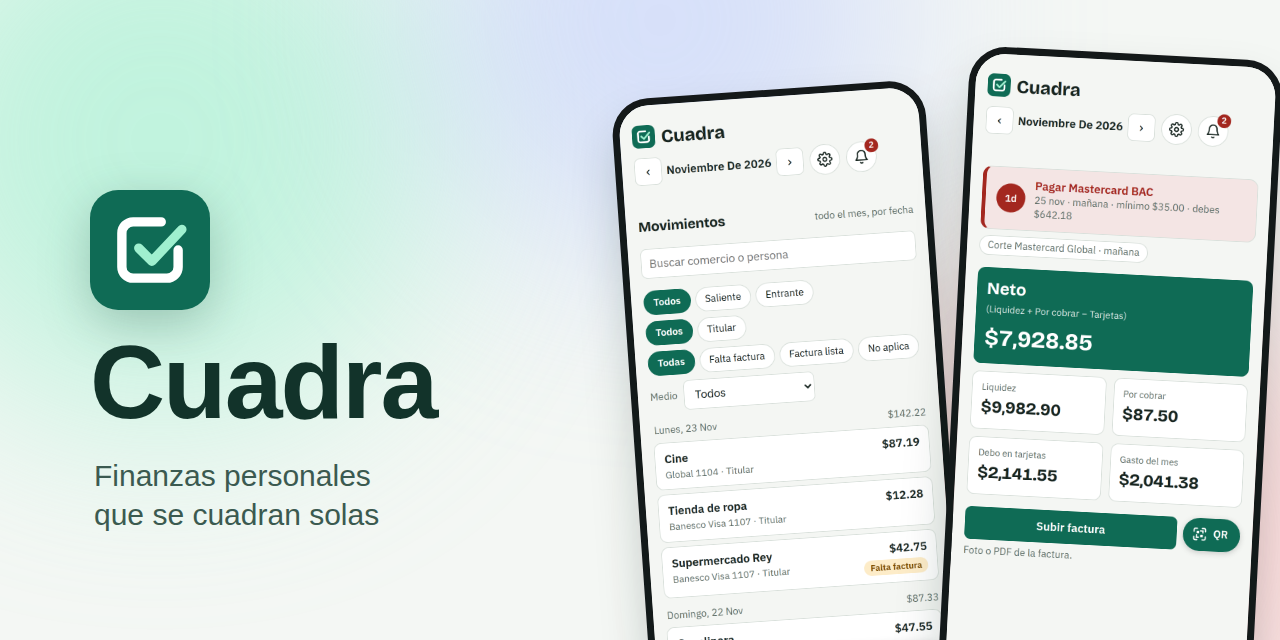
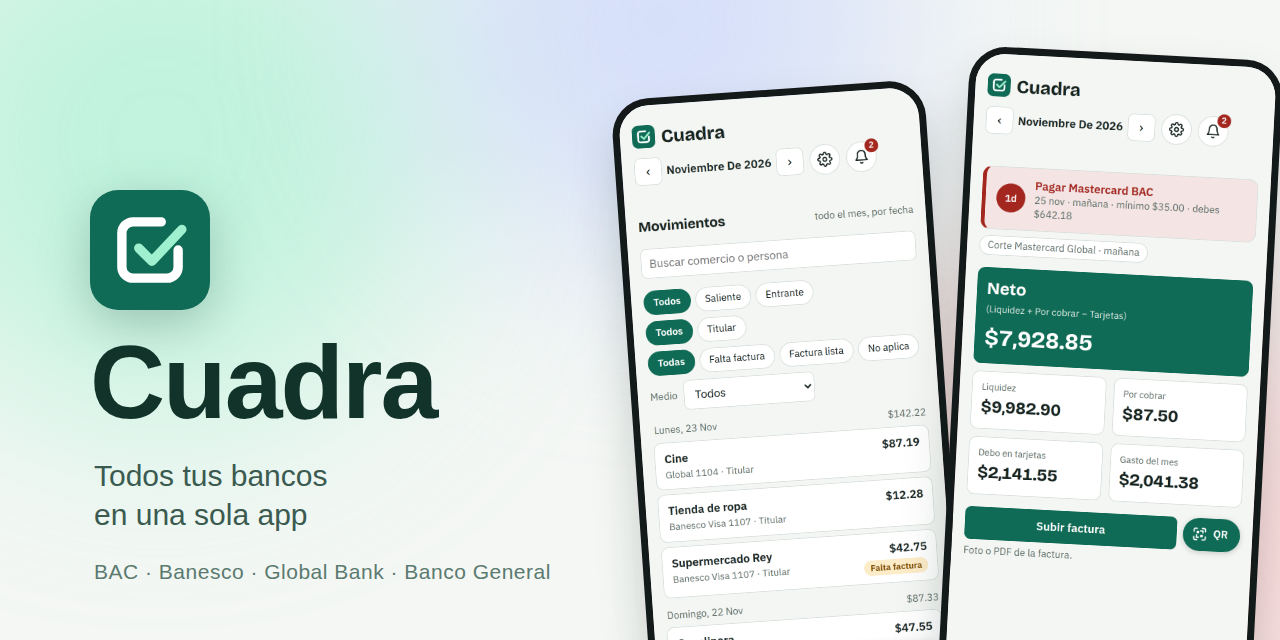
Actualización 2026-11-24

Changed region(s): [[0.0625, 0.7188, 0.3125, 0.8438], [0.0625, 0.875, 0.4375, 0.9062]]

diff --git a/README.md b/README.md
@@ -4,7 +4,7 @@
 
 <h1 align="center">Cuadra</h1>
 
-**Finanzas personales que se cuadran solas.** Cuadra lee tus bancos panameños, tus avisos por correo y tus facturas, y mantiene en una sola página tus saldos, tus gastos, tus tarjetas y lo que otras personas te deben, sin que tengas que anotar nada a mano.
+**Todos tus bancos en una sola app.** Cuadra junta BAC, Banesco, Global Bank y Banco General (y tu Yappy) en una sola pantalla: saldos, tarjetas, movimientos y facturas, cuadrados solos contra lo que dice cada banco. En Panamá no existe una API para ver tus bancos juntos, así que Cuadra entra por ti a cada banca en línea, solo para leer, y te lo muestra todo unificado, junto con lo que otras personas te deben, sin que tengas que anotar nada a mano.
 
 Corre en un servidor propio y pequeño (una Raspberry Pi o un VPS de 1 GB), sin servicios de terceros para tus datos y sin IA en el proceso.
 
@@ -135,6 +135,7 @@ La idea es simple: tener todas tus facturas a mano y un control de lo que gastas
 
 | | |
 |---|---|
+| **Todos tus bancos en un solo lugar** | BAC, Banesco, Global Bank y Banco General en una sola pantalla. Un solo Neto (liquidez + por cobrar − tarjetas) en vez de cuatro portales distintos. |
 | **Movimientos al instante** | Cada aviso de compra que llega al correo (BAC, Banesco, Global Bank, Banco General, Yappy) se registra en menos de 5 minutos. |
 | **Conciliación diaria con el banco** | Un lector entra a la banca en línea una vez al día, confirma saldos y movimientos y detecta compras **en tránsito**. Lo que no cuadra se marca para revisión. |
 | **Tarjetas de crédito** | Saldo, disponible, fechas de corte y de pago, pago mínimo y pago de contado, con aviso de los pagos próximos. |
